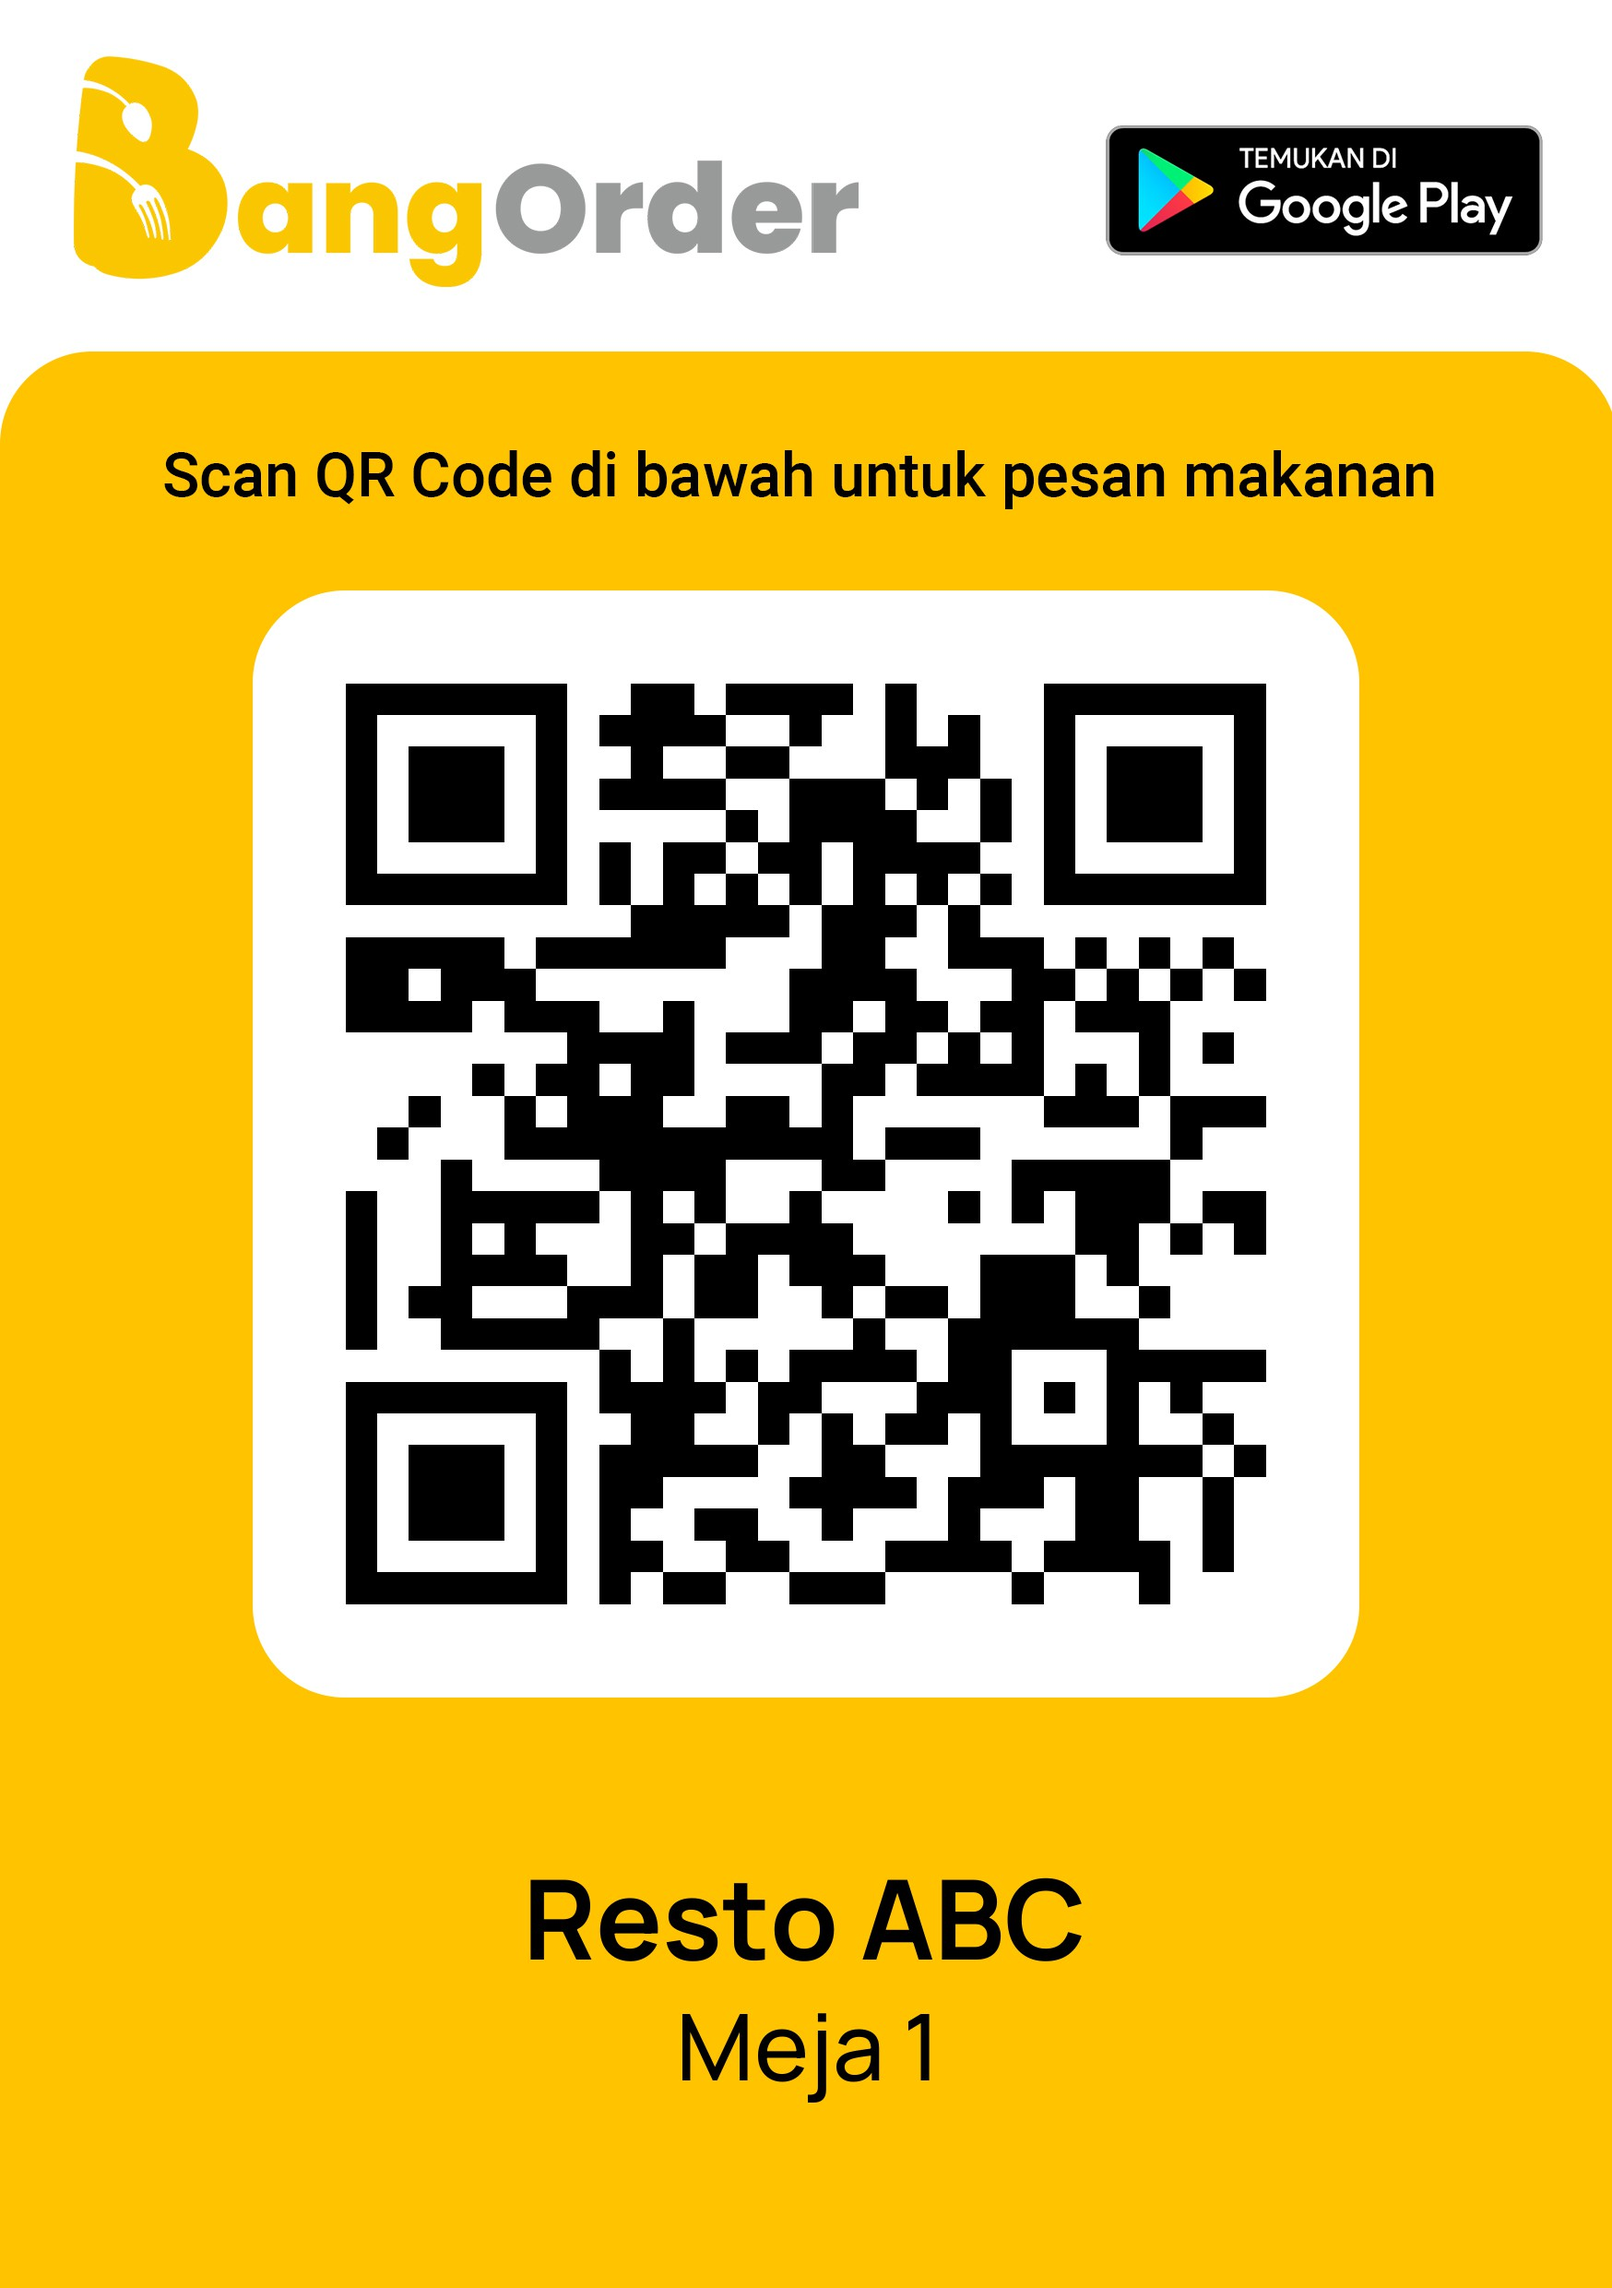
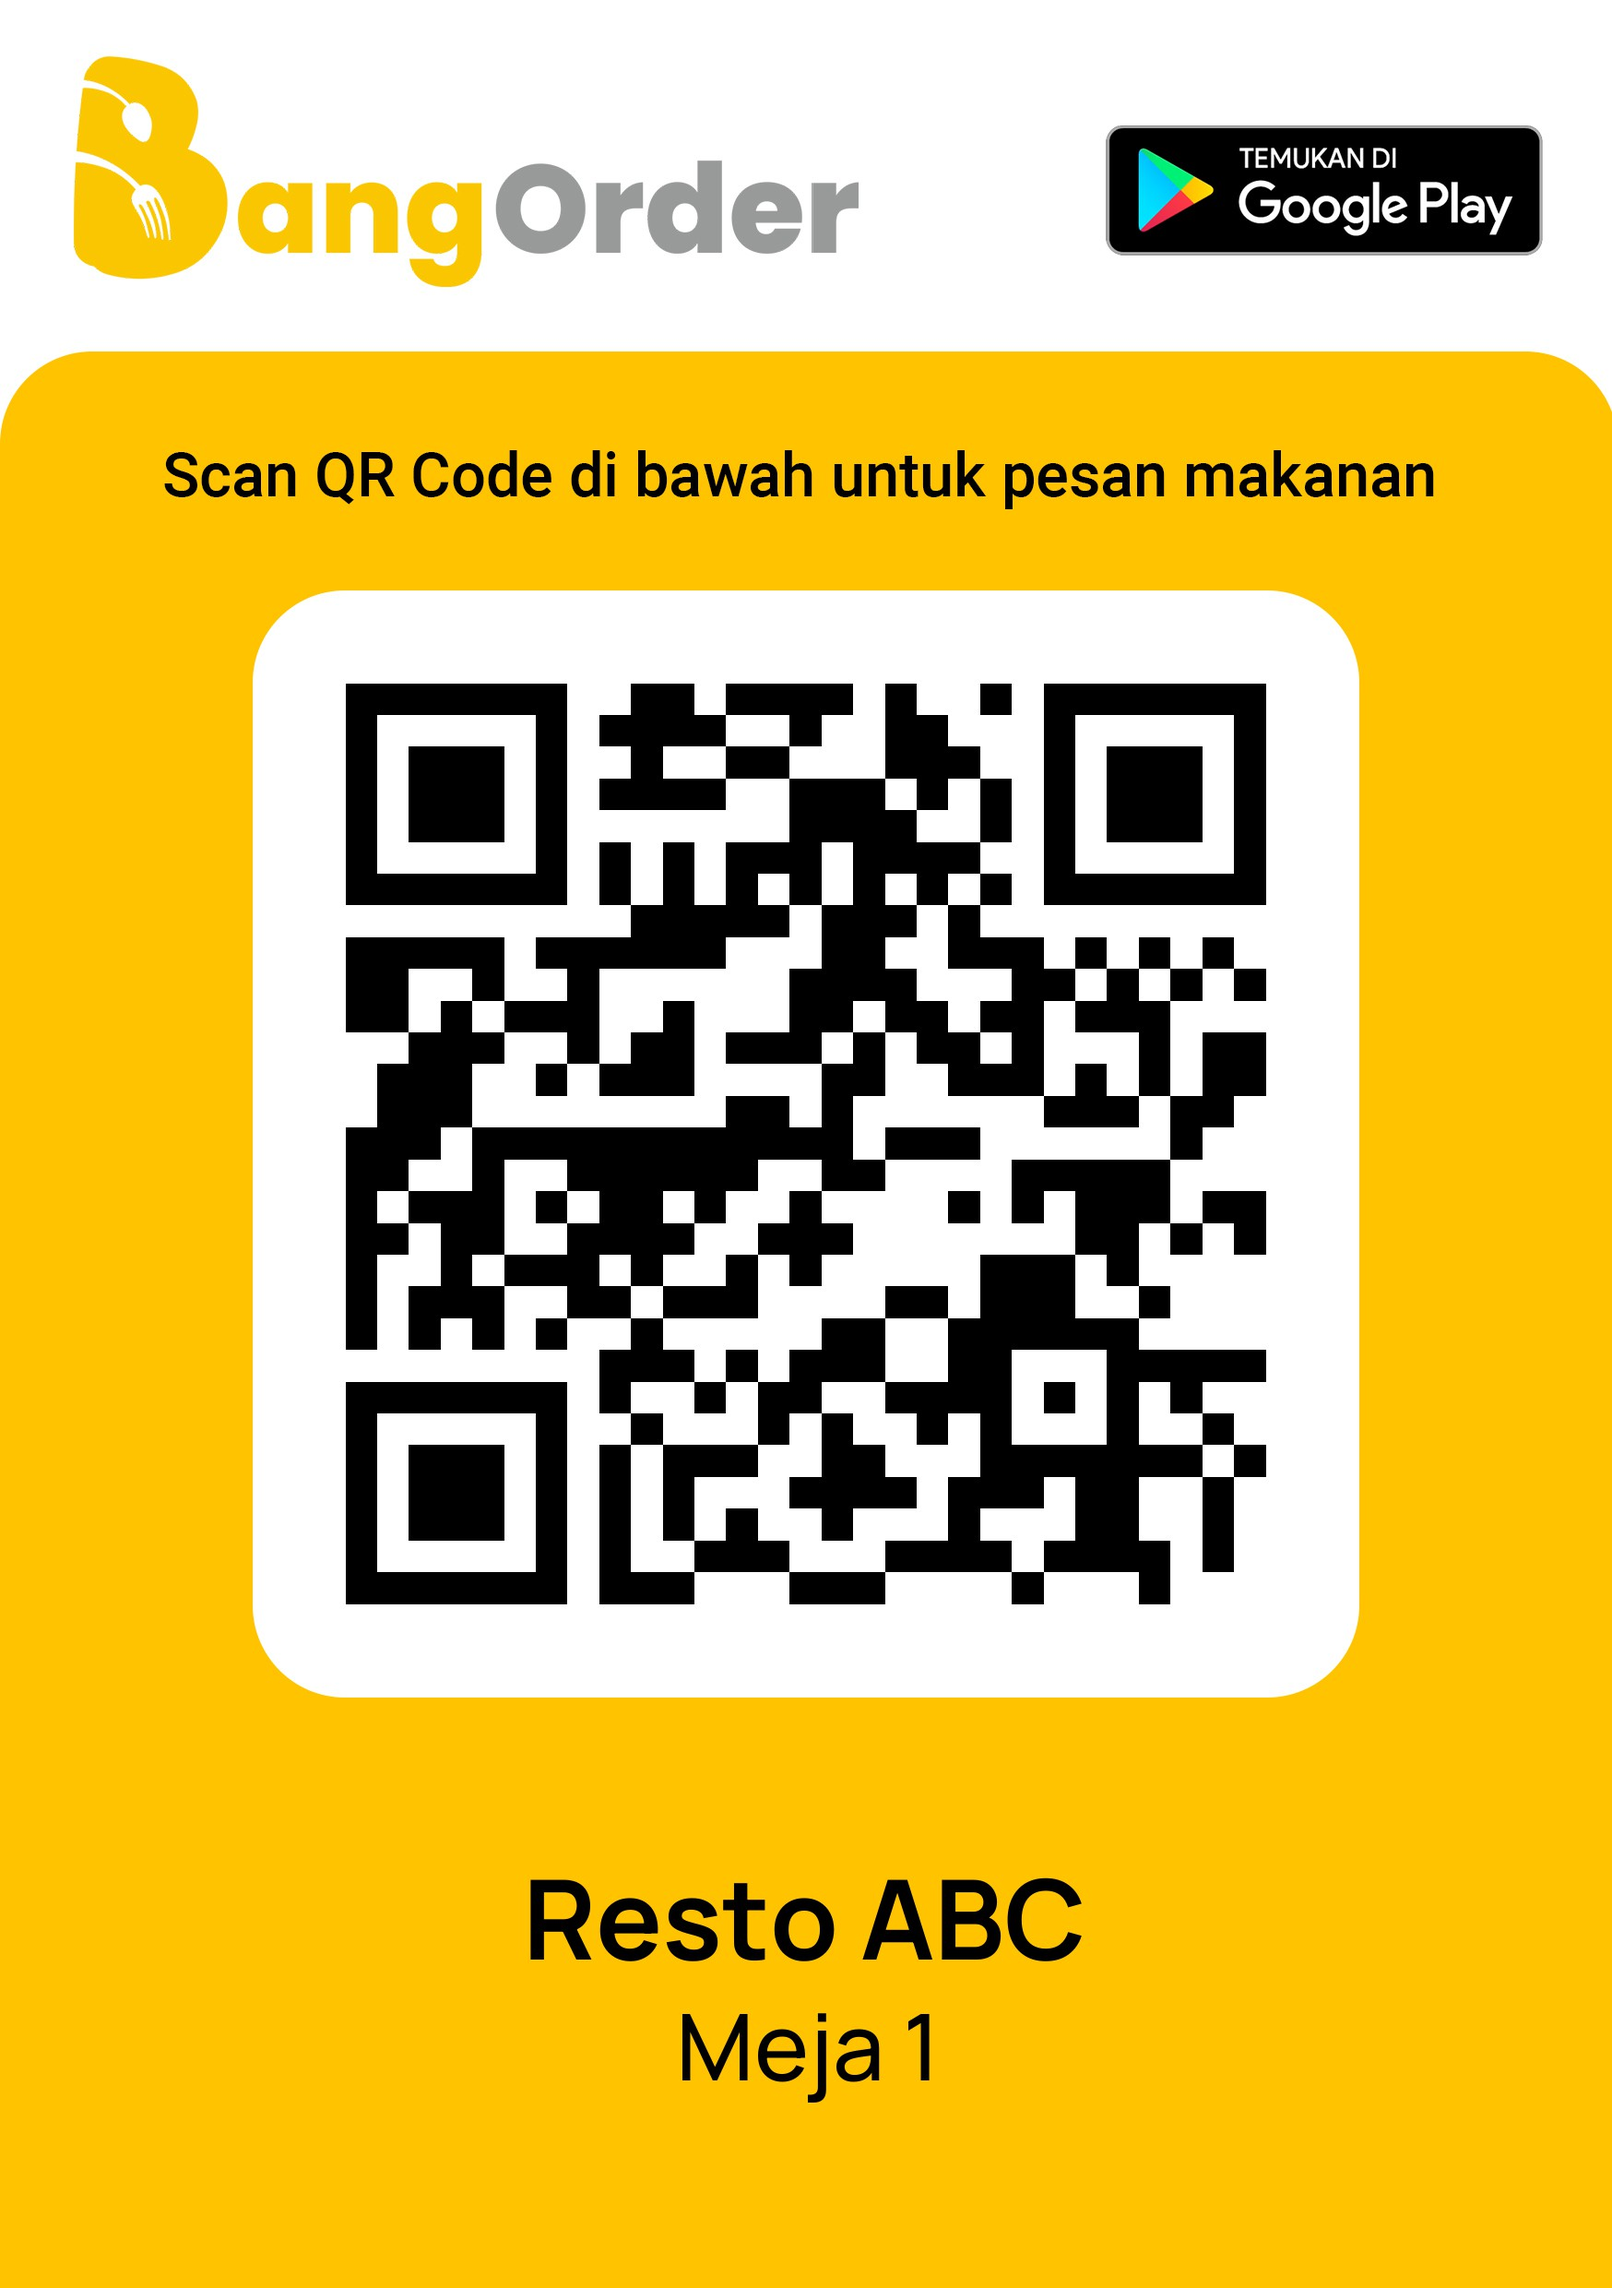
Change qr value

diff --git a/app/Http/Controllers/RestaurantTableController.php b/app/Http/Controllers/RestaurantTableController.php
@@ -34,7 +34,7 @@ class RestaurantTableController extends Controller
         } else {
             $restaurant_id = $restaurant->id;
             $table_id = $inserted_data->id;
-            $qr_value = base64_encode("{'restaurant_id':'$restaurant_id', 'table_id':'$table_id'}");
+            $qr_value = base64_encode("{\"restaurant_id\":\"$restaurant_id\", \"table_id\":\"$table_id\"}");
             $qr_directory_path = "storage/id_$restaurant_id/qr_code";
             $sticker_origin_path = 'assets/Sticker_QR_Code.jpg';
             $sticker_save_path = $qr_directory_path . "/qr_id_$table_id.jpg";
